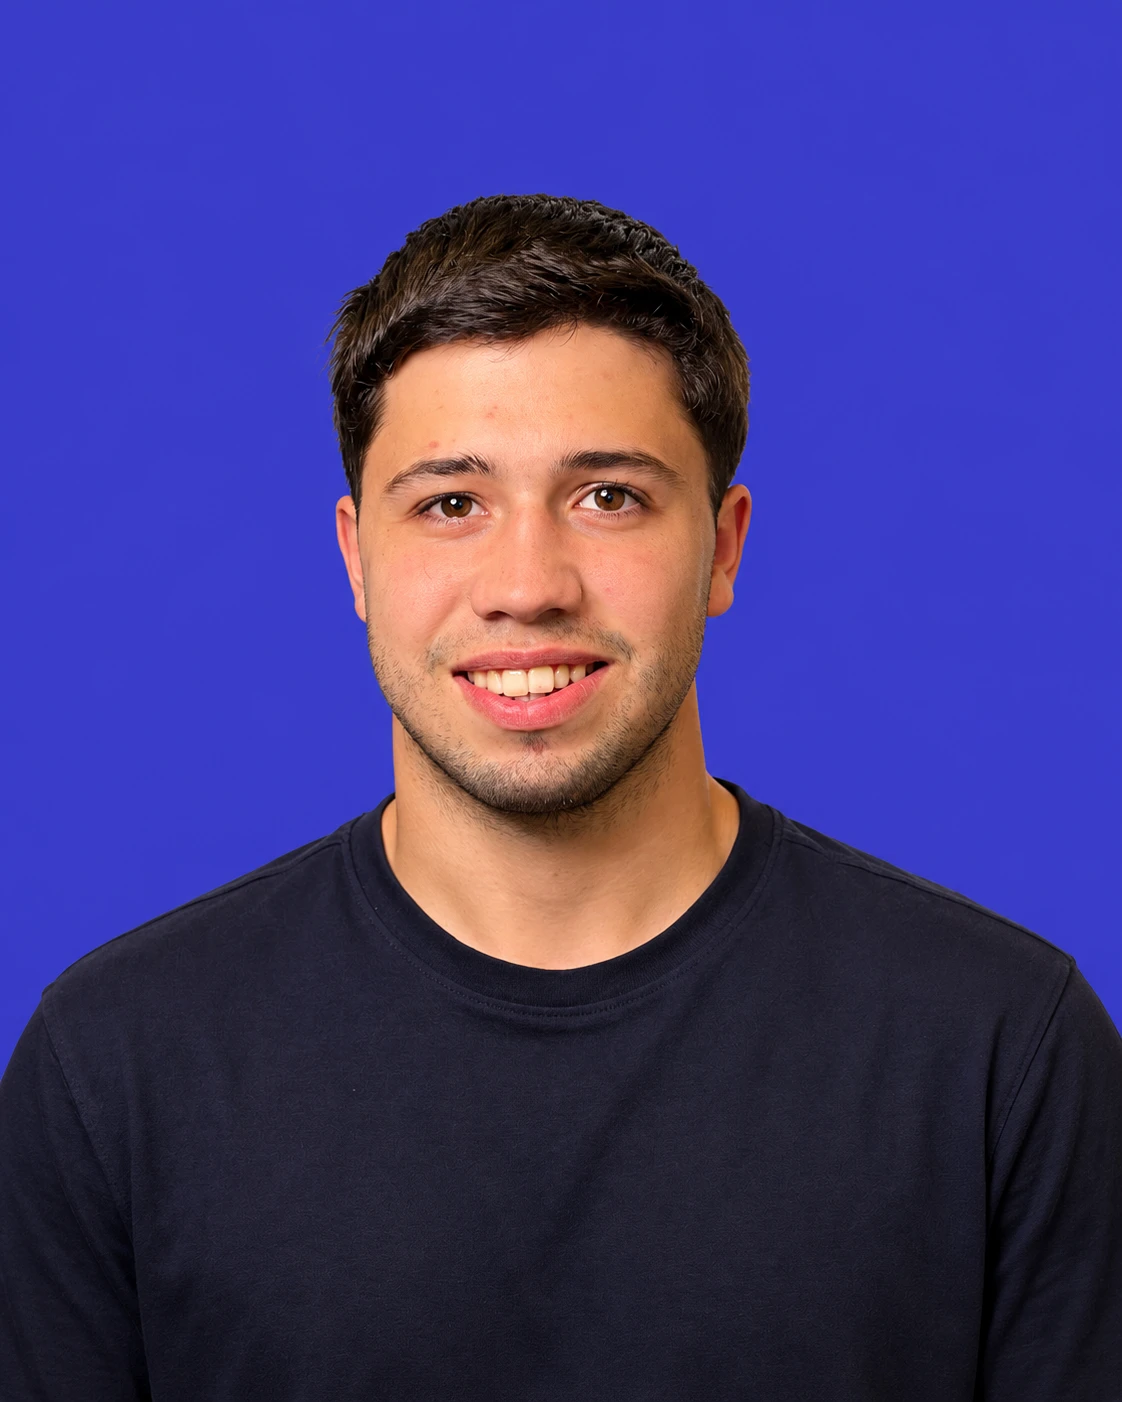
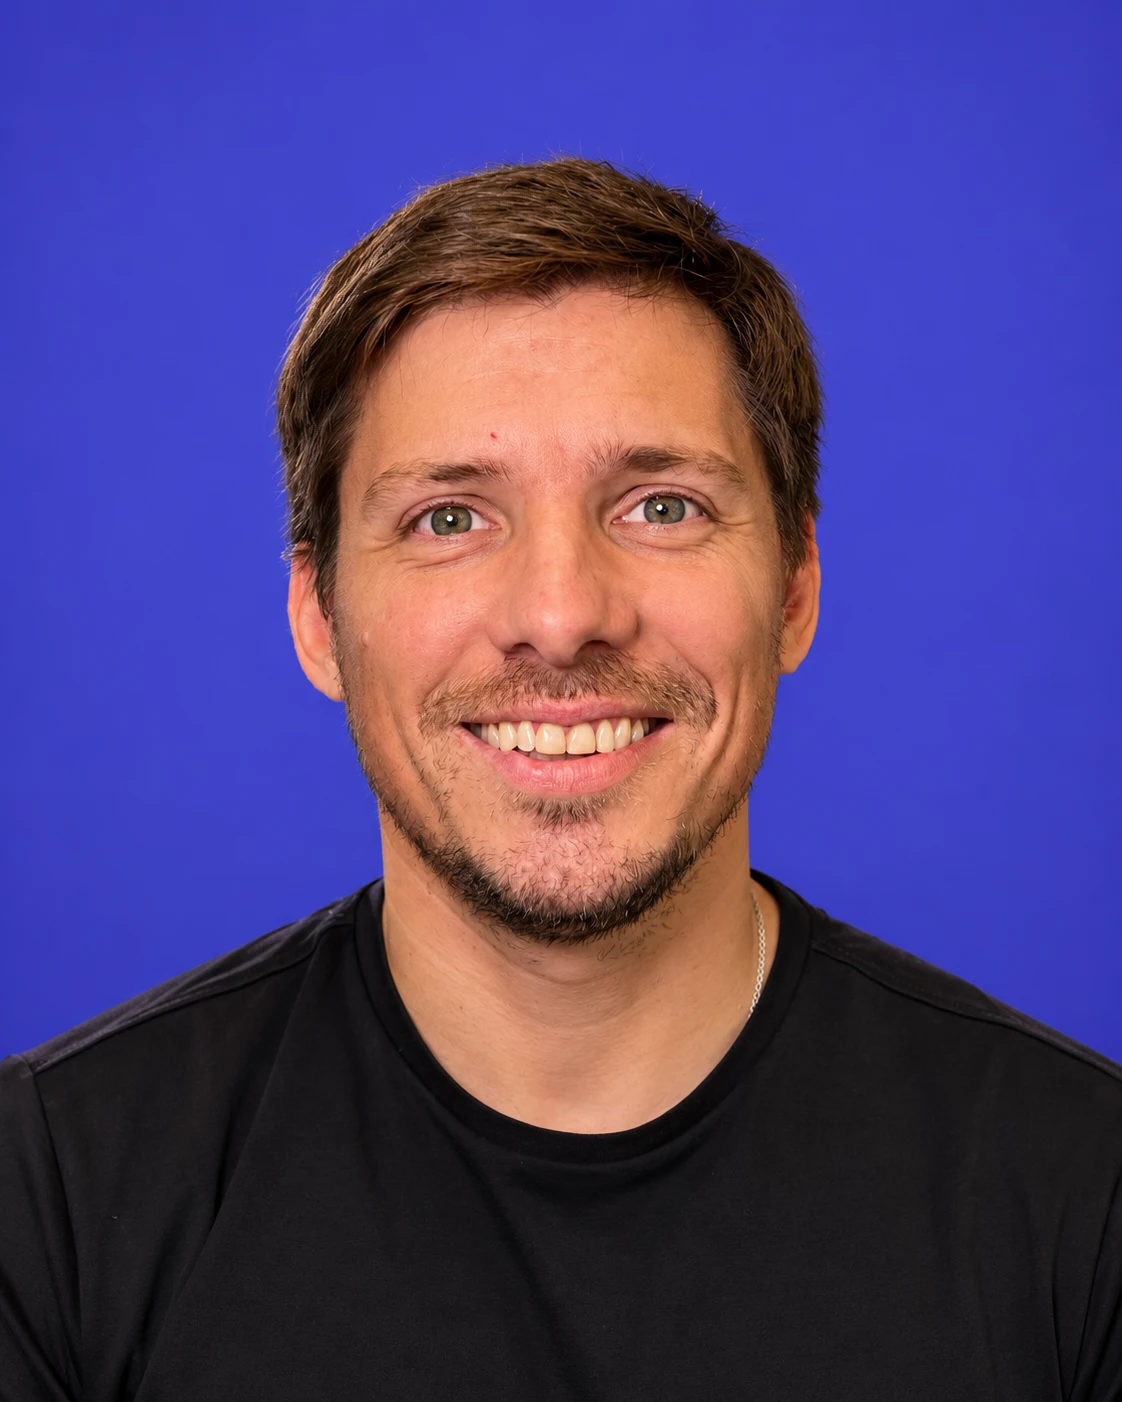
Corrige fotos de Santiago Baya Casal y Lucas Acosta (eran archivos duplicados) y achica un poco la línea de afirmación del hero para que entre en una sola línea (ES/EN/PT)

diff --git a/index.html b/index.html
@@ -259,7 +259,7 @@
   <section style="background:radial-gradient(120% 90% at 50% 30%, #3D3DC8 0%, rgba(61,61,200,0) 65%), #1E1E6B;min-height:82vh;min-height:82svh;display:flex;align-items:center;padding:140px 24px 60px">
     <div style="max-width:1280px;margin:0 auto;display:flex;flex-wrap:wrap;gap:72px;align-items:center;width:100%">
       <div style="flex:1 1 420px;min-width:0">
-        <h1 class="hero-title" style="margin:0;max-width:23ch;font-size:clamp(2.5rem,4.8vw,4rem);line-height:1.1;letter-spacing:-0.02em;font-weight:800;color:#FFFFFF"><span style="display:block;margin-bottom:14px">Tu estrategia marca un rumbo.</span>¿El foco de <span class="hero-title__rotator" aria-hidden="true"><span class="hero-title__word is-active">tu organización</span><span class="hero-title__word">tu equipo</span><span class="hero-title__word">tus líderes</span><span class="hero-title__word">cada persona</span></span> va en esa dirección?<span class="sr-only">Tu estrategia marca un rumbo. ¿El foco de tu organización va en esa dirección?</span></h1>
+        <h1 class="hero-title" style="margin:0;max-width:23ch;font-size:clamp(2.5rem,4.8vw,4rem);line-height:1.1;letter-spacing:-0.02em;font-weight:800;color:#FFFFFF"><span style="display:block;font-size:0.8em;margin-bottom:14px">Tu estrategia marca un rumbo.</span>¿El foco de <span class="hero-title__rotator" aria-hidden="true"><span class="hero-title__word is-active">tu organización</span><span class="hero-title__word">tu equipo</span><span class="hero-title__word">tus líderes</span><span class="hero-title__word">cada persona</span></span> va en esa dirección?<span class="sr-only">Tu estrategia marca un rumbo. ¿El foco de tu organización va en esa dirección?</span></h1>
         <p style="margin:28px 0 0;max-width:50ch;font-size:1.0625rem;line-height:1.55;color:#B9C0F5">PAUSA es una plataforma de gestión creada para ayudar a las organizaciones a trabajar de forma más consciente, eficiente y sostenible.</p>
       </div>
       <div id="hero-wrap" style="flex:1 1 420px;min-width:0;max-width:480px;position:relative;cursor:pointer">

diff --git a/pt/index.html b/pt/index.html
@@ -259,7 +259,7 @@
   <section style="background:radial-gradient(120% 90% at 50% 30%, #3D3DC8 0%, rgba(61,61,200,0) 65%), #1E1E6B;min-height:82vh;min-height:82svh;display:flex;align-items:center;padding:140px 24px 60px">
     <div style="max-width:1280px;margin:0 auto;display:flex;flex-wrap:wrap;gap:72px;align-items:center;width:100%">
       <div style="flex:1 1 420px;min-width:0">
-        <h1 class="hero-title" style="margin:0;max-width:23ch;font-size:clamp(2.5rem,4.8vw,4rem);line-height:1.1;letter-spacing:-0.02em;font-weight:800;color:#FFFFFF"><span style="display:block;margin-bottom:14px">Sua estratégia diz uma coisa.</span>Para onde está indo o foco de <span class="hero-title__rotator" aria-hidden="true"><span class="hero-title__word is-active">sua equipe?</span><span class="hero-title__word">seu negócio?</span><span class="hero-title__word">cada pessoa?</span></span><span class="sr-only">Sua estratégia diz uma coisa. Para onde está indo o foco de sua equipe?</span></h1>
+        <h1 class="hero-title" style="margin:0;max-width:23ch;font-size:clamp(2.5rem,4.8vw,4rem);line-height:1.1;letter-spacing:-0.02em;font-weight:800;color:#FFFFFF"><span style="display:block;font-size:0.8em;margin-bottom:14px">Sua estratégia diz uma coisa.</span>Para onde está indo o foco de <span class="hero-title__rotator" aria-hidden="true"><span class="hero-title__word is-active">sua equipe?</span><span class="hero-title__word">seu negócio?</span><span class="hero-title__word">cada pessoa?</span></span><span class="sr-only">Sua estratégia diz uma coisa. Para onde está indo o foco de sua equipe?</span></h1>
         <p style="margin:28px 0 0;max-width:50ch;font-size:1.0625rem;line-height:1.55;color:#B9C0F5">A PAUSA é uma plataforma de gestão criada para ajudar as organizações a trabalhar de forma mais consciente, eficiente e sustentável.</p>
       </div>
       <div id="hero-wrap" style="flex:1 1 420px;min-width:0;max-width:480px;position:relative;cursor:pointer">

diff --git a/en/index.html b/en/index.html
@@ -259,7 +259,7 @@
   <section style="background:radial-gradient(120% 90% at 50% 30%, #3D3DC8 0%, rgba(61,61,200,0) 65%), #1E1E6B;min-height:82vh;min-height:82svh;display:flex;align-items:center;padding:140px 24px 60px">
     <div style="max-width:1280px;margin:0 auto;display:flex;flex-wrap:wrap;gap:72px;align-items:center;width:100%">
       <div style="flex:1 1 420px;min-width:0">
-        <h1 class="hero-title" style="margin:0;max-width:23ch;font-size:clamp(2.5rem,4.8vw,4rem);line-height:1.1;letter-spacing:-0.02em;font-weight:800;color:#FFFFFF"><span style="display:block;margin-bottom:14px">Your strategy says one thing.</span>Where is the focus of <span class="hero-title__rotator" aria-hidden="true"><span class="hero-title__word is-active">your team?</span><span class="hero-title__word">your business?</span><span class="hero-title__word">each person?</span></span><span class="sr-only">Your strategy says one thing. Where is the focus of your team?</span></h1>
+        <h1 class="hero-title" style="margin:0;max-width:23ch;font-size:clamp(2.5rem,4.8vw,4rem);line-height:1.1;letter-spacing:-0.02em;font-weight:800;color:#FFFFFF"><span style="display:block;font-size:0.8em;margin-bottom:14px">Your strategy says one thing.</span>Where is the focus of <span class="hero-title__rotator" aria-hidden="true"><span class="hero-title__word is-active">your team?</span><span class="hero-title__word">your business?</span><span class="hero-title__word">each person?</span></span><span class="sr-only">Your strategy says one thing. Where is the focus of your team?</span></h1>
         <p style="margin:28px 0 0;max-width:50ch;font-size:1.0625rem;line-height:1.55;color:#B9C0F5">PAUSA is a management platform built to help organizations work more consciously, efficiently, and sustainably.</p>
       </div>
       <div id="hero-wrap" style="flex:1 1 420px;min-width:0;max-width:480px;position:relative;cursor:pointer">

diff --git a/pt/equipo.html b/pt/equipo.html
@@ -213,7 +213,7 @@
     { name: 'Sofía Ferrari', role: 'Júnior', photo: '../assets/equipo/sofia-ferrari.jpg', linkedin: 'https://www.linkedin.com/company/pausaco' },
     { name: 'Federico Acevedo', role: 'CFO', photo: '../assets/equipo/federico-acevedo.jpg', linkedin: 'https://www.linkedin.com/company/pausaco' },
     { name: 'Lucas Acosta', role: 'Head of Customer Success', photo: '../assets/equipo/lucas-acosta.webp', linkedin: 'https://www.linkedin.com/company/pausaco' },
-    { name: 'Santiago Baya Casal', role: 'Júnior', photo: null, linkedin: 'https://www.linkedin.com/company/pausaco' },
+    { name: 'Santiago Baya Casal', role: 'Júnior', photo: '../assets/equipo/santiago-baya-casal.webp', linkedin: 'https://www.linkedin.com/company/pausaco' },
     { name: 'Miguel Reynal', role: 'Facilitador Pausa', photo: '../assets/equipo/miguel-reynal.jpg', linkedin: 'https://www.linkedin.com/company/pausaco' },
     { name: 'Ariela Schulman', role: 'Facilitadora Pausa', photo: '../assets/equipo/ariela-schulman.webp', linkedin: 'https://www.linkedin.com/company/pausaco' },
     { name: 'Paz Porres', role: 'Facilitadora Pausa', photo: '../assets/equipo/paz-porres.jpg', linkedin: 'https://www.linkedin.com/company/pausaco' },

diff --git a/en/equipo.html b/en/equipo.html
@@ -213,7 +213,7 @@
     { name: 'Sofía Ferrari', role: 'Junior', photo: '../assets/equipo/sofia-ferrari.jpg', linkedin: 'https://www.linkedin.com/company/pausaco' },
     { name: 'Federico Acevedo', role: 'CFO', photo: '../assets/equipo/federico-acevedo.jpg', linkedin: 'https://www.linkedin.com/company/pausaco' },
     { name: 'Lucas Acosta', role: 'Head of Customer Success', photo: '../assets/equipo/lucas-acosta.webp', linkedin: 'https://www.linkedin.com/company/pausaco' },
-    { name: 'Santiago Baya Casal', role: 'Junior', photo: null, linkedin: 'https://www.linkedin.com/company/pausaco' },
+    { name: 'Santiago Baya Casal', role: 'Junior', photo: '../assets/equipo/santiago-baya-casal.webp', linkedin: 'https://www.linkedin.com/company/pausaco' },
     { name: 'Miguel Reynal', role: 'Pausa Facilitator', photo: '../assets/equipo/miguel-reynal.jpg', linkedin: 'https://www.linkedin.com/company/pausaco' },
     { name: 'Ariela Schulman', role: 'Pausa Facilitator', photo: '../assets/equipo/ariela-schulman.webp', linkedin: 'https://www.linkedin.com/company/pausaco' },
     { name: 'Paz Porres', role: 'Pausa Facilitator', photo: '../assets/equipo/paz-porres.jpg', linkedin: 'https://www.linkedin.com/company/pausaco' },

diff --git a/equipo.html b/equipo.html
@@ -214,7 +214,7 @@
     { name: 'Sofía Ferrari', role: 'Junior', photo: 'assets/equipo/sofia-ferrari.jpg', linkedin: 'https://www.linkedin.com/company/pausaco' },
     { name: 'Federico Acevedo', role: 'CFO', photo: 'assets/equipo/federico-acevedo.jpg', linkedin: 'https://www.linkedin.com/company/pausaco' },
     { name: 'Lucas Acosta', role: 'Head of Customer Success', photo: 'assets/equipo/lucas-acosta.webp', linkedin: 'https://www.linkedin.com/company/pausaco' },
-    { name: 'Santiago Baya Casal', role: 'Junior', photo: null, linkedin: 'https://www.linkedin.com/company/pausaco' },
+    { name: 'Santiago Baya Casal', role: 'Junior', photo: 'assets/equipo/santiago-baya-casal.webp', linkedin: 'https://www.linkedin.com/company/pausaco' },
     { name: 'Miguel Reynal', role: 'Acompañante Pausa', photo: 'assets/equipo/miguel-reynal.jpg', linkedin: 'https://www.linkedin.com/company/pausaco' },
     { name: 'Ariela Schulman', role: 'Acompañante Pausa', photo: 'assets/equipo/ariela-schulman.webp', linkedin: 'https://www.linkedin.com/company/pausaco' },
     { name: 'Paz Porres', role: 'Acompañante Pausa', photo: 'assets/equipo/paz-porres.jpg', linkedin: 'https://www.linkedin.com/company/pausaco' },
